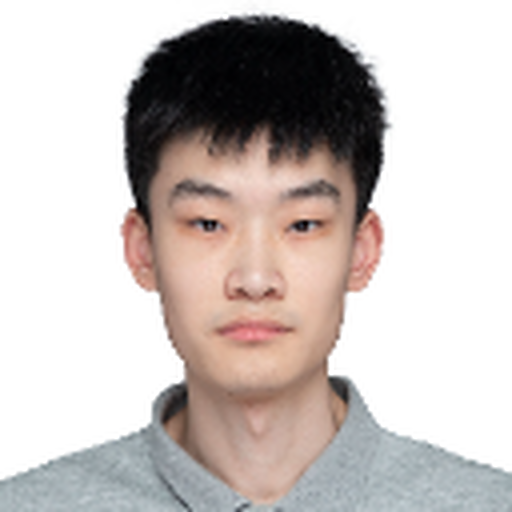
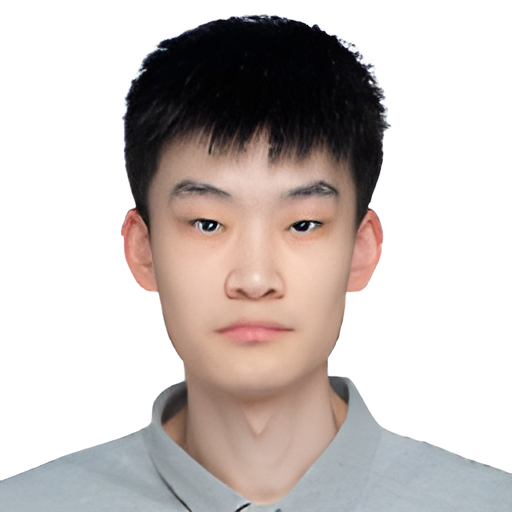
Replace portrait with a Real-ESRGAN upscale
Upscale the 128px source with Real-ESRGAN x4plus (no face restoration,
so features stay unchanged) and serve 320px/512px WebP via srcset. The
social preview image uses the same upscale.

diff --git a/_includes/cv-template.html b/_includes/cv-template.html
@@ -58,11 +58,85 @@
   </section>
   {% endif %}
 
+  {% if cv.work.size > 0 %}
+  <section class="cv-section" aria-labelledby="cv-research-title">
+    <header class="cv-section__header">
+      <p class="section-label">Research</p>
+      <h2 id="cv-research-title">Research Experience</h2>
+    </header>
+    {% for work in cv.work %}
+    <article>
+      <h3>{{ work.position }} · {{ work.name }}</h3>
+      <p class="cv-card__meta">Advisor: {{ work.advisor }}</p>
+      <p>{{ work.summary }}</p>
+      <ul>
+        {% for highlight in work.highlights %}
+        <li><strong>{{ highlight.title }}.</strong> {{ highlight.description }}</li>
+        {% endfor %}
+      </ul>
+    </article>
+    {% endfor %}
+  </section>
+  {% endif %}
+
+  {% if cv_publications.size > 0 %}
+  <section class="cv-section" aria-labelledby="cv-publications-title">
+    <header class="cv-section__header">
+      <p class="section-label">Research</p>
+      <h2 id="cv-publications-title">Publications</h2>
+    </header>
+    <ol class="cv-list cv-publication-list">
+      {% for post in cv_publications %}
+      <li>
+        <article class="cv-publication-card" itemscope itemtype="https://schema.org/ScholarlyArticle">
+          <time class="cv-card__date" datetime="{{ post.date | date: '%Y-%m-%d' }}" itemprop="datePublished">{% include paper-year.html post=post %}</time>
+          <div>
+            <h3 itemprop="headline"><a href="{{ base_path }}{{ post.url }}" rel="bookmark">{{ post.title }}</a></h3>
+            <p class="cv-card__meta" itemprop="publisher">{{ post.venue }}</p>
+            {% if post.authors %}<p class="cv-card__authors">{% include paper-authors.html post=post %}</p>{% endif %}
+            {% if post.excerpt %}<p class="cv-card__description" itemprop="description">{{ post.excerpt | strip_html | strip_newlines }}</p>{% endif %}
+            <nav class="paper-links" aria-label="Links for {{ post.title | escape }}">
+              {% include paper-links.html post=post %}
+            </nav>
+          </div>
+        </article>
+      </li>
+      {% endfor %}
+    </ol>
+  </section>
+  {% endif %}
+  {% if cv.teaching.size > 0 %}
+  <section class="cv-section" aria-labelledby="cv-teaching-title">
+    <header class="cv-section__header">
+      <p class="section-label">Teaching</p>
+      <h2 id="cv-teaching-title">Teaching Experience</h2>
+    </header>
+    {% for teaching in cv.teaching %}
+    <article>
+      <h3>{{ teaching.role }} · {{ teaching.institution }}</h3>
+      <p>{{ teaching.course }} · {{ teaching.term }}</p>
+    </article>
+    {% endfor %}
+  </section>
+  {% endif %}
+
+  {% if cv.service.size > 0 %}
+  <section class="cv-section" aria-labelledby="cv-service-title">
+    <header class="cv-section__header">
+      <p class="section-label">Service</p>
+      <h2 id="cv-service-title">Academic Service</h2>
+    </header>
+    {% for service in cv.service %}
+    <p><strong>{{ service.role }}:</strong> {{ service.venues }} · {{ service.year }}</p>
+    {% endfor %}
+  </section>
+  {% endif %}
+
   {% if cv.awards.size > 0 %}
   <section class="cv-section" aria-labelledby="cv-honors-title">
     <header class="cv-section__header">
       <p class="section-label">Recognition</p>
-      <h2 id="cv-honors-title">Honors &amp; Awards</h2>
+      <h2 id="cv-honors-title">Honors &amp; Research Support</h2>
     </header>
     <div class="cv-card-grid">
       {% for award in cv.awards %}
@@ -93,30 +167,4 @@
   </section>
   {% endif %}
 
-  {% if cv_publications.size > 0 %}
-  <section class="cv-section" aria-labelledby="cv-publications-title">
-    <header class="cv-section__header">
-      <p class="section-label">Research</p>
-      <h2 id="cv-publications-title">Publications</h2>
-    </header>
-    <ol class="cv-list cv-publication-list">
-      {% for post in cv_publications %}
-      <li>
-        <article class="cv-publication-card" itemscope itemtype="https://schema.org/ScholarlyArticle">
-          <time class="cv-card__date" datetime="{{ post.date | date: '%Y-%m-%d' }}" itemprop="datePublished">{% include paper-year.html post=post %}</time>
-          <div>
-            <h3 itemprop="headline"><a href="{{ base_path }}{{ post.url }}" rel="bookmark">{{ post.title }}</a></h3>
-            <p class="cv-card__meta" itemprop="publisher">{{ post.venue }}</p>
-            {% if post.authors %}<p class="cv-card__authors">{% include paper-authors.html post=post %}</p>{% endif %}
-            {% if post.excerpt %}<p class="cv-card__description" itemprop="description">{{ post.excerpt | strip_html | strip_newlines }}</p>{% endif %}
-            <nav class="paper-links" aria-label="Links for {{ post.title | escape }}">
-              {% include paper-links.html post=post %}
-            </nav>
-          </div>
-        </article>
-      </li>
-      {% endfor %}
-    </ol>
-  </section>
-  {% endif %}
 </div>

diff --git a/_layouts/single.html b/_layouts/single.html
@@ -57,7 +57,7 @@ layout: default
       </div>
 
       <figure class="site-hero__portrait">
-        <img src="{{ base_path }}/images/profile.webp" width="512" height="512" fetchpriority="high" alt="Portrait of {{ site.author.name | default: "Xudong Zhu" }}">
+        <img src="{{ base_path }}/images/profile.webp" srcset="{{ base_path }}/images/profile.webp 320w, {{ base_path }}/images/profile@2x.webp 512w" sizes="10rem" width="320" height="320" fetchpriority="high" alt="Portrait of {{ site.author.name | default: "Xudong Zhu" }}">
       </figure>
     </section>
 

diff --git a/_tests/structural_content_test.rb b/_tests/structural_content_test.rb
@@ -53,11 +53,11 @@ end
 assert cv_page.include?('/files/Xudong_Zhu_CV.pdf'), 'CV page must offer the PDF download'
 assert File.file?(site_file('files/Xudong_Zhu_CV.pdf')), 'CV PDF must be published with the site'
 
-cv_section_ids = %w[cv-experience-title cv-honors-title cv-open-source-title cv-publications-title]
+cv_section_ids = %w[cv-experience-title cv-research-title cv-publications-title cv-teaching-title cv-service-title cv-honors-title cv-open-source-title]
 cv_section_positions = cv_section_ids.map { |id| cv_page.index(%(id="#{id}")) }
-assert cv_section_positions.all?, 'CV must render Experience, Honors, Open Source, and Publications sections'
+assert cv_section_positions.all?, 'CV must render education, research, publications, teaching, service, honors, and open source'
 assert cv_section_positions == cv_section_positions.sort,
-       'CV section order must be Experience, Honors, Open Source, then Publications'
+       'CV sections must follow the academic CV order'
 ['MMLS 2026 Traveling Award', 'NAIRR Pilot Project NAIRR260106',
  'Geometry and Training Dynamics of Representations in Large Language Models'].each do |content|
   assert cv_page.include?(content), "CV lost honor content: #{content}"
